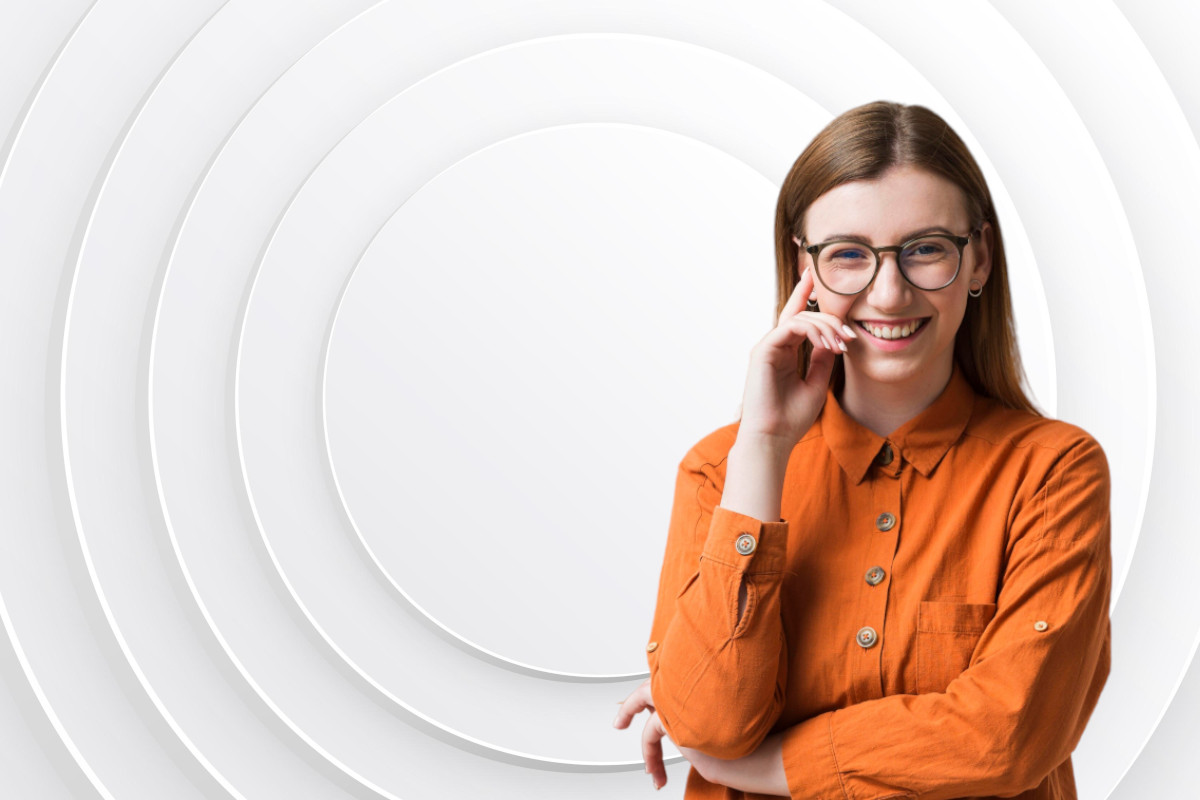
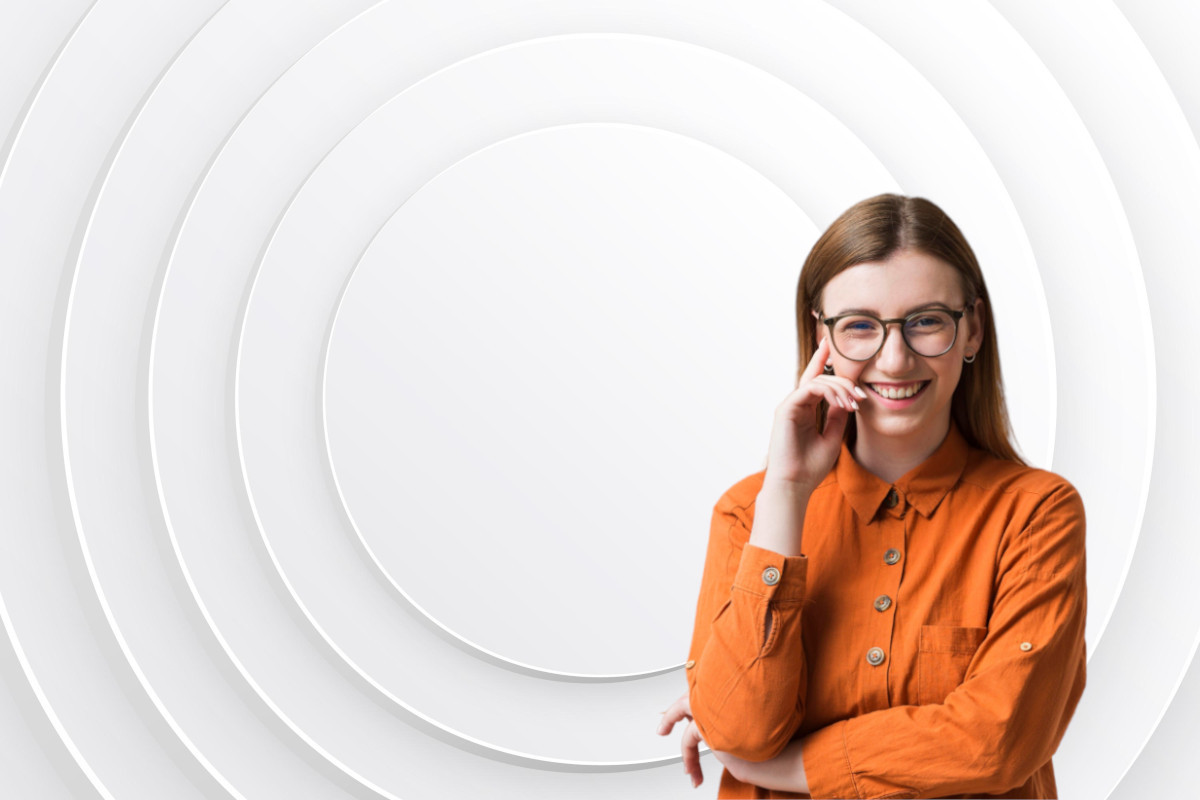
Ajuste na section de inicio

Changed region(s): [[0.4933, 0.125, 0.925, 1.0]]

diff --git a/styles/sections.css b/styles/sections.css
@@ -1,29 +1,56 @@
 .section-home{
-    width: 100vw;
-    height: 700px;
-    background-color: rgba(255, 0, 0, 0.261);
-    margin: auto;
-    background-image: url('../imgs/background-inicio.jpg');
+    background-image: url('../imgs/background-inicio-mobile.jpg ');
     background-position: center;
     background-size: cover;
-    display: flex;
-    gap: 70px;
-    justify-content: center;
-    align-items: center;
-    overflow: hidden;
+    height: 550px;
 }
 
+@media screen and (min-width:330px) {
+    .section-home{
+        height: 500px;
+    }
+
+    .tile-content-home{
+        height: 200px;
+    }
+
+    .left-content-home{
+        height: 200px;
+    }
+}
+
+
+@media screen and (min-width:600px) {
+    .section-home{
+        height: 400px;
+        background-image: url('../imgs/background-inicio.jpg ');
+        display: flex;
+        justify-content: center;
+        align-items: center;
+    }
+
+    .tile-content-home{
+        height: 400px;
+        width: 300px;
+    }
+
+    .left-content-home{
+        width: 300px;
+        margin-left: 40px;
+    }
+}
+
+
+
 .left-content-home{
-    /* background-image: url('../imgs/orange-img.png'); */
-    background-position: center;
-    background-size: cover;
-    height: 50vh;
-    width: 40vw;
+    padding-top: 30px;
+    display: flex;
+    justify-content: center;
 }
 
 .tile-content-home{
-    height: 50vh;
-    width: 40vw;
+    height: 230px;
+    width: 80vw;
     background: rgba(117, 117, 117, 0);
     box-shadow: 0 8px 32px 0 rgba(187, 156, 136, 0.37);
     backdrop-filter: blur( 13.5px );
@@ -33,27 +60,23 @@
     display: flex;
     flex-direction: column;
     align-items: center;
-    justify-content: center;
-    gap: 25px;
-    padding: 0px 50px;
+    gap: 20px;
+    padding: 15px 20px;
 }
 
 .tile-content-home > h1 {
     color: var(--LaranjaClaro);
-    text-align: start;
-    font-size: 40px;
+    text-align: left;
+    font-size: 20px;
 }
 
 .tile-content-home > p {
-    text-align: justify;
-    line-height: 25px;
+    text-align: left;
+    font-size: 15px;
+    line-height: 20px;
 }
 
 .right-content-home{
-    background-image: url('../imgs/mulher_oculos.png');
-    background-position: center;
-    background-size: contain;
-    background-repeat: no-repeat;
-    height: 80vh;
-    width: 40vw;
+    width: 400px;
+    height: 50px;
 }

diff --git a/index.html b/index.html
@@ -73,7 +73,7 @@
         <div class="left-content-home">
             <div class="tile-content-home">
                 <h1>Encontre o Estilo Perfeito para Seus Olhos</h1>
-                <p>Na Ótica Imagem, oferecemos uma ampla seleção de óculos que combinam elegância, conforto e tecnologia de ponta. Descubra a visão clara e o estilo sofisticado que você merece. Explore nossas coleções exclusivas e dê um novo olhar ao seu dia a dia!</p>
+                <p>Na Ótica Imagem, você encontra óculos elegantes, confortáveis e tecnológicos. Descubra um novo olhar com nossas coleções exclusivas!</p>
             </div>
         </div>
 
